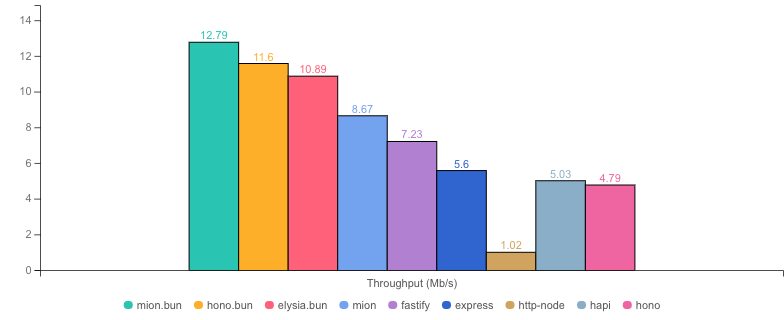
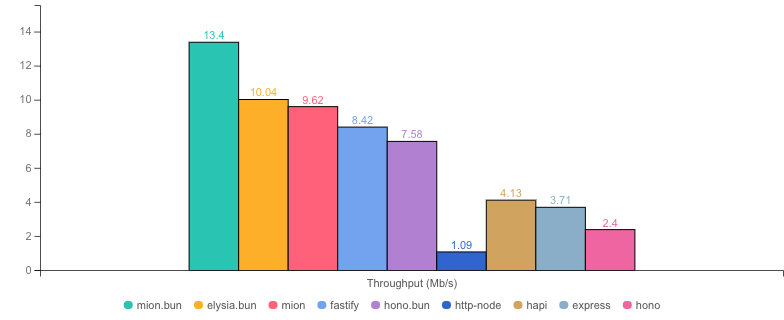
doing some cleanup and better file structure reflection benchmarks

diff --git a/benchmark-compare.js b/benchmark-compare.js
@@ -151,17 +151,10 @@ ${compareResults(true, outputResults)}
 
 function setBenchmark(benchmark) {
   switch (benchmark) {
-    case "mion":
-      resultsMarkdownFilename = "MION-OPTIONS.md";
-      resultsPath = join(process.cwd(), "results-mion");
-      resultsJsonFilename = "benchmark-results-mion.json";
-      info = benchmarkMion.info;
-      chartsDirectory = join(process.cwd(), "assets", "public", "charts-mion");
-      break;
     case "servers-hello":
       resultsMarkdownFilename = "HELLO-WORLD.md";
       resultsPath = join(process.cwd(), "results-hello");
-      resultsJsonFilename = "benchmark-results-servers-hello.json";
+      resultsJsonFilename = "benchmark-results-hello-world.json";
       info = benchmarkServers.info;
       chartsDirectory = join(
         process.cwd(),
@@ -171,10 +164,10 @@ function setBenchmark(benchmark) {
       );
       break;
     default:
-    case "servers":
+    case "update-user":
       resultsMarkdownFilename = "UPDATE-USER.md";
-      resultsPath = join(process.cwd(), "results");
-      resultsJsonFilename = "benchmark-results-servers.json";
+      resultsPath = join(process.cwd(), "results-update-user");
+      resultsJsonFilename = "benchmark-results-update-user.json";
       info = benchmarkServers.info;
       chartsDirectory = join(
         process.cwd(),

diff --git a/benchmark-bench.js b/benchmark-bench.js
@@ -17,12 +17,7 @@ run().catch((err) => {
 
 function setBenchmarks(benchmarkName) {
   switch (benchmarkName) {
-    case "mion":
-      choices = mionBenchmarks.choices;
-      list = mionBenchmarks.list;
-      getBenchmarkInfo = mionBenchmarks.info;
-      break;
-    case "servers":
+    case "update-user":
     default:
       choices = serverBenchmarks.choices;
       list = serverBenchmarks.list;
@@ -76,17 +71,13 @@ async function getBenchmarkOptions() {
       name: "benchmark",
       choices: [
         {
-          name: "servers => compare multiple libraries (update User)",
-          value: "servers",
+          name: "update-user => compare multiple libraries (update User)",
+          value: "update-user",
         },
         {
           name: "servers => compare multiple libraries (hello world)",
           value: "servers-hello",
         },
-        // {
-        //   name: "mion options => benchmarks mion using different settings and options",
-        //   value: "mion",
-        // },
       ],
       validate: function (answer) {
         if (answer.length < 1) {

diff --git a/lib/autocannon.js b/lib/autocannon.js
@@ -10,20 +10,16 @@ const writeFile = promisify(fs.writeFile);
 const mkdir = promisify(fs.mkdir);
 const access = promisify(fs.access);
 
-const resultsDirectoryServer = path.join(process.cwd(), "results");
+const resultsDirectoryServer = path.join(process.cwd(), "results-update-user");
 const resultsDirectoryServerHello = path.join(process.cwd(), "results-hello");
-const resultsDirectoryMion = path.join(process.cwd(), "results-mion");
 let resultsDirectory;
 
 function setResultsDirectory(benchmarkName) {
   switch (benchmarkName) {
-    case "mion":
-      resultsDirectory = resultsDirectoryMion;
-      break;
     case "servers-hello":
       resultsDirectory = resultsDirectoryServerHello;
       break;
-    case "servers":
+    case "update-user":
     default:
       resultsDirectory = resultsDirectoryServer;
       break;

diff --git a/UPDATE-USER.md b/UPDATE-USER.md
@@ -119,8 +119,8 @@ Our goal is to perform similar to fastify as it is the industry standard in term
 
 * __Machine:__ darwin x64 | 8 vCPUs | 16.0GB Mem
 * __Node:__ `v24.13.0`
-* __Run:__ Thu Feb 05 2026 21:21:09 GMT+0000 (Greenwich Mean Time)
-* __Method:__ `autocannon -c 100 -d 4.11 -p 10 localhost:3000` (two rounds; one to warm-up, one to measure)
+* __Run:__ Thu Feb 05 2026 22:00:02 GMT+0000 (Greenwich Mean Time)
+* __Method:__ `autocannon -c 100 -d 4.03 -p 10 localhost:3000` (two rounds; one to warm-up, one to measure)
 
 #### Req (R/s) 
 
@@ -154,12 +154,12 @@ Our goal is to perform similar to fastify as it is the industry standard in term
 
 |              | Version   | Router | Req (R/s)   | Latency (ms) | Output (Mb/s) | Max Memory (Mb) | Max Cpu (%) | Validation | Description                                                |
 | :--          | --:       | --:    | :-:         | --:          | --:           | --:             | --:         | :-:        | :--                                                        |
-| **mion.bun** | **0.6.2** | **✓**  | **12392.0** | **81.11**    | **12.79**     | **94**          | **100**     | **✓**      | **mion using bun, automatic validation and serialization** |
-| hono.bun     | 3.12.6    | ✓      | 11598.0     | 84.99        | 11.60         | 87              | 99          | ✓          | hono bun server with Zod validation                        |
-| elysia.bun   | 1.0.0     | ✓      | 11042.0     | 89.20        | 10.89         | 99              | 100         | ✓          | Elysia framework with TypeBox validation                   |
-| **mion**     | **0.6.2** | **✓**  | **8052.0**  | **100.25**   | **8.67**      | **114**         | **115**     | **✓**      | **Automatic validation and serialization out of the box**  |
-| fastify      | 4.10.2    | ✓      | 6917.0      | 108.31       | 7.23          | 89              | 122         | ✓          | Fastify with Zod validation                                |
-| express      | 4.22.1    | ✓      | 5364.3      | 119.45       | 5.60          | 109             | 131         | ✓          | Express with Zod validation                                |
-| http-node    | 16.18.0   | ✗      | 5268.0      | 122.01       | 1.02          | 68              | 115         | ✓          | bare node http server with Zod validation                  |
-| hapi         | 21.4.4    | ✓      | 4809.8      | 127.04       | 5.03          | 95              | 132         | ✓          | Hapi with Zod validation                                   |
-| hono         | 3.12.6    | ✓      | 4585.3      | 128.91       | 4.79          | 261             | 128         | ✓          | hono node server with Zod validation                       |
+| **mion.bun** | **0.6.2** | **✓**  | **12986.0** | **75.96**    | **13.40**     | **95**          | **99**      | **✓**      | **mion using bun, automatic validation and serialization** |
+| elysia.bun   | 1.0.0     | ✓      | 10188.0     | 96.71        | 10.04         | 101             | 112         | ✓          | Elysia framework with TypeBox validation                   |
+| **mion**     | **0.6.2** | **✓**  | **8937.5**  | **98.15**    | **9.62**      | **115**         | **123**     | **✓**      | **Automatic validation and serialization out of the box**  |
+| fastify      | 4.10.2    | ✓      | 8046.5      | 100.57       | 8.42          | 89              | 118         | ✓          | Fastify with Zod validation                                |
+| hono.bun     | 3.12.6    | ✓      | 7574.0      | 130.04       | 7.58          | 85              | 97          | ✓          | hono bun server with Zod validation                        |
+| http-node    | 16.18.0   | ✗      | 5595.0      | 118.24       | 1.09          | 68              | 118         | ✓          | bare node http server with Zod validation                  |
+| hapi         | 21.4.4    | ✓      | 3953.8      | 138.38       | 4.13          | 96              | 137         | ✓          | Hapi with Zod validation                                   |
+| express      | 4.22.1    | ✓      | 3549.3      | 150.31       | 3.71          | 106             | 101         | ✓          | Express with Zod validation                                |
+| hono         | 3.12.6    | ✓      | 2300.3      | 185.62       | 2.40          | 244             | 132         | ✓          | hono node server with Zod validation                       |

diff --git a/HELLO-WORLD.md b/HELLO-WORLD.md
@@ -53,7 +53,7 @@ app.get("/hello", function (req, res) {
 
 * __Machine:__ darwin x64 | 8 vCPUs | 16.0GB Mem
 * __Node:__ `v24.13.0`
-* __Run:__ Thu Feb 05 2026 21:22:17 GMT+0000 (Greenwich Mean Time)
+* __Run:__ Thu Feb 05 2026 22:10:50 GMT+0000 (Greenwich Mean Time)
 * __Method:__ `autocannon -c 100 -d 4.02 -p 10 localhost:3000` (two rounds; one to warm-up, one to measure)
 
 #### Req (R/s) 
@@ -88,9 +88,9 @@ app.get("/hello", function (req, res) {
 
 |           | Version   | Router | Req (R/s)   | Latency (ms) | Output (Mb/s) | Max Memory (Mb) | Max Cpu (%) | Validation | Description                                               |
 | :--       | --:       | --:    | :-:         | --:          | --:           | --:             | --:         | :-:        | :--                                                       |
-| http-node | 16.18.0   | ✗      | 32066.0     | 30.63        | 5.72          | 77              | 114         | ✓          | bare node http server with Zod validation                 |
-| **mion**  | **0.6.2** | **✓**  | **27104.0** | **36.25**    | **5.30**      | **108**         | **107**     | **✓**      | **Automatic validation and serialization out of the box** |
-| hono      | 3.12.6    | ✓      | 19948.0     | 49.39        | 3.56          | 162             | 106         | ✓          | hono node server with Zod validation                      |
-| fastify   | 4.10.2    | ✓      | 19765.0     | 49.95        | 3.54          | 107             | 94          | ✓          | Fastify with Zod validation                               |
-| hapi      | 21.4.4    | ✓      | 16745.0     | 58.86        | 2.99          | 147             | 106         | ✓          | Hapi with Zod validation                                  |
-| express   | 4.22.1    | ✓      | 7554.0      | 121.46       | 1.35          | 100             | 94          | ✓          | Express with Zod validation                               |
+| http-node | 16.18.0   | ✗      | 23616.0     | 41.71        | 4.21          | 76              | 126         | ✓          | bare node http server with Zod validation                 |
+| fastify   | 4.10.2    | ✓      | 20008.0     | 49.19        | 3.59          | 108             | 123         | ✓          | Fastify with Zod validation                               |
+| **mion**  | **0.6.2** | **✓**  | **17747.0** | **55.53**    | **3.47**      | **108**         | **116**     | **✓**      | **Automatic validation and serialization out of the box** |
+| hapi      | 21.4.4    | ✓      | 15829.0     | 62.26        | 2.82          | 113             | 125         | ✓          | Hapi with Zod validation                                  |
+| hono      | 3.12.6    | ✓      | 14154.0     | 69.38        | 2.52          | 161             | 119         | ✓          | hono node server with Zod validation                      |
+| express   | 4.22.1    | ✓      | 11592.0     | 84.94        | 2.07          | 104             | 111         | ✓          | Express with Zod validation                               |
